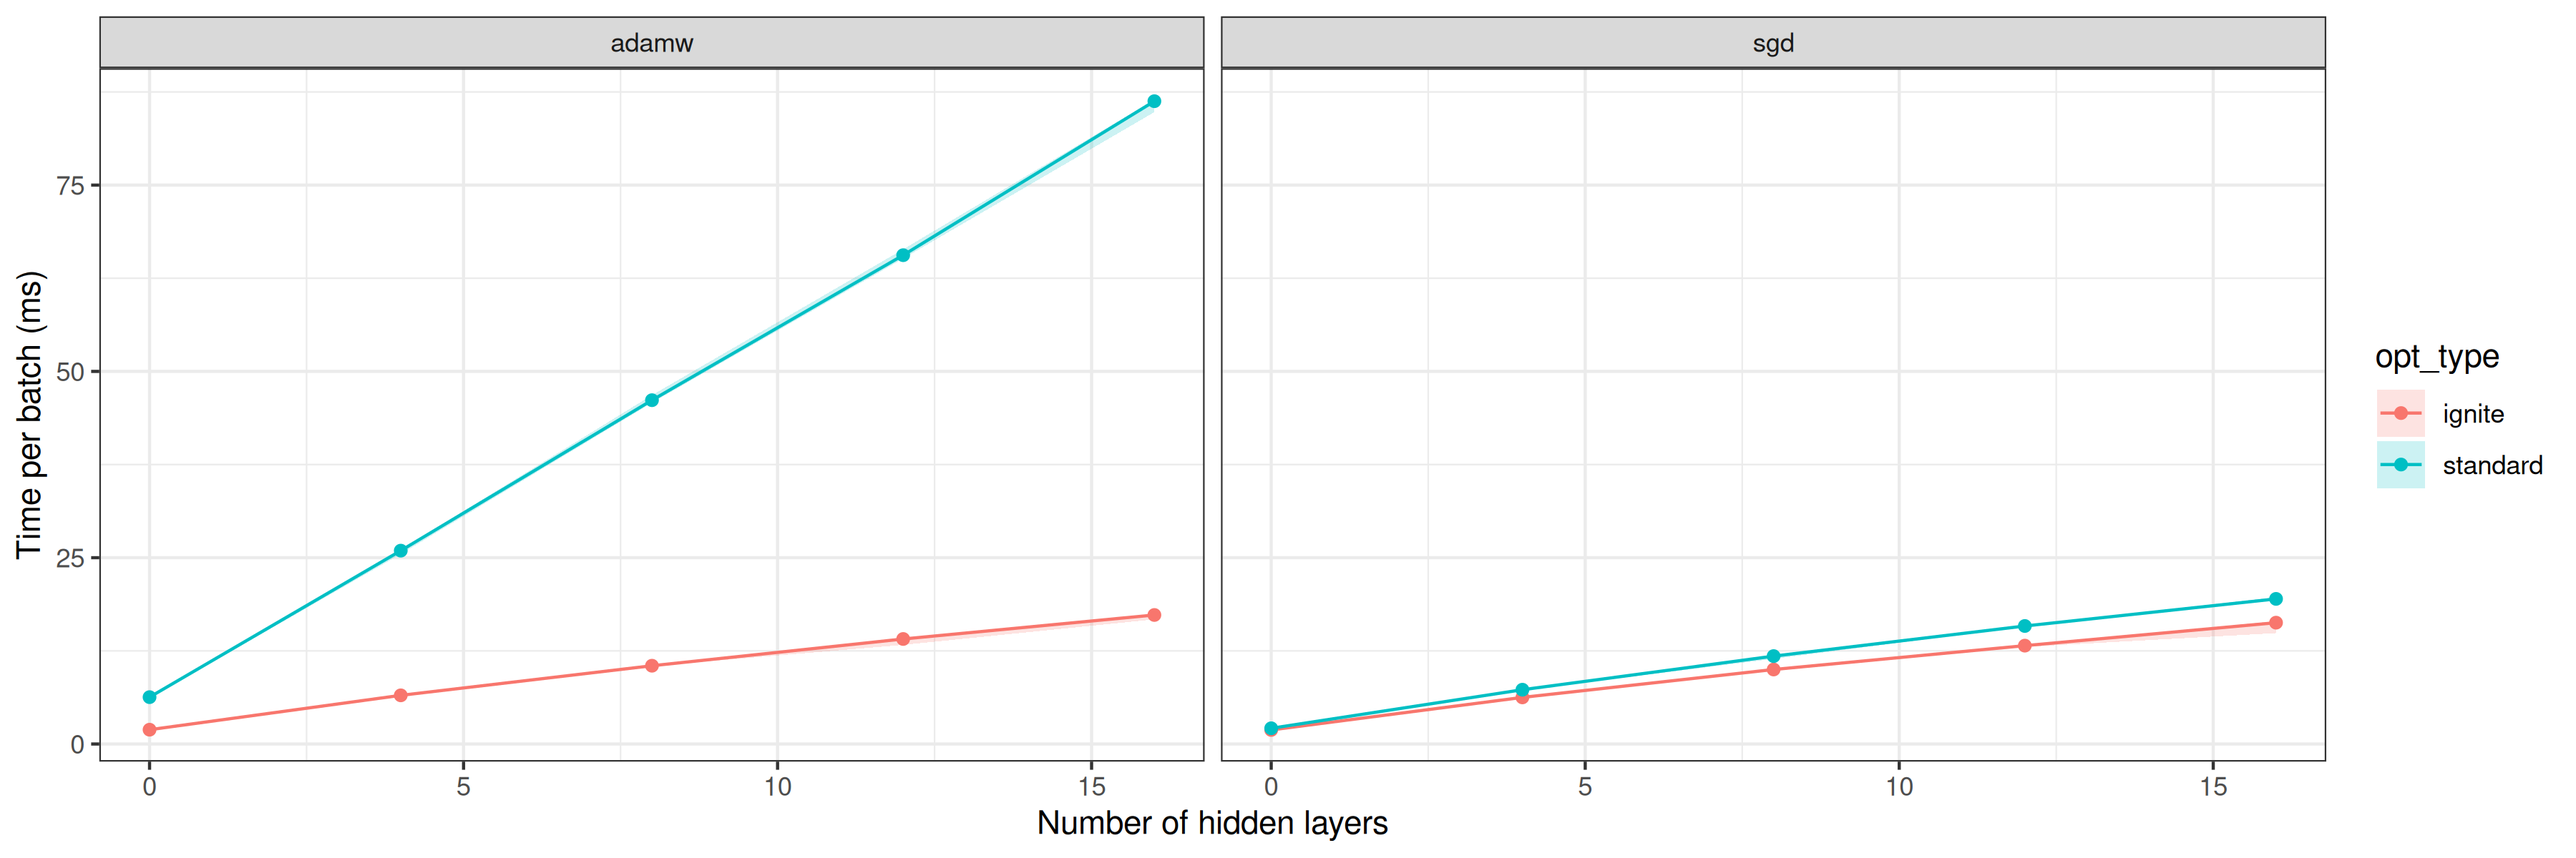
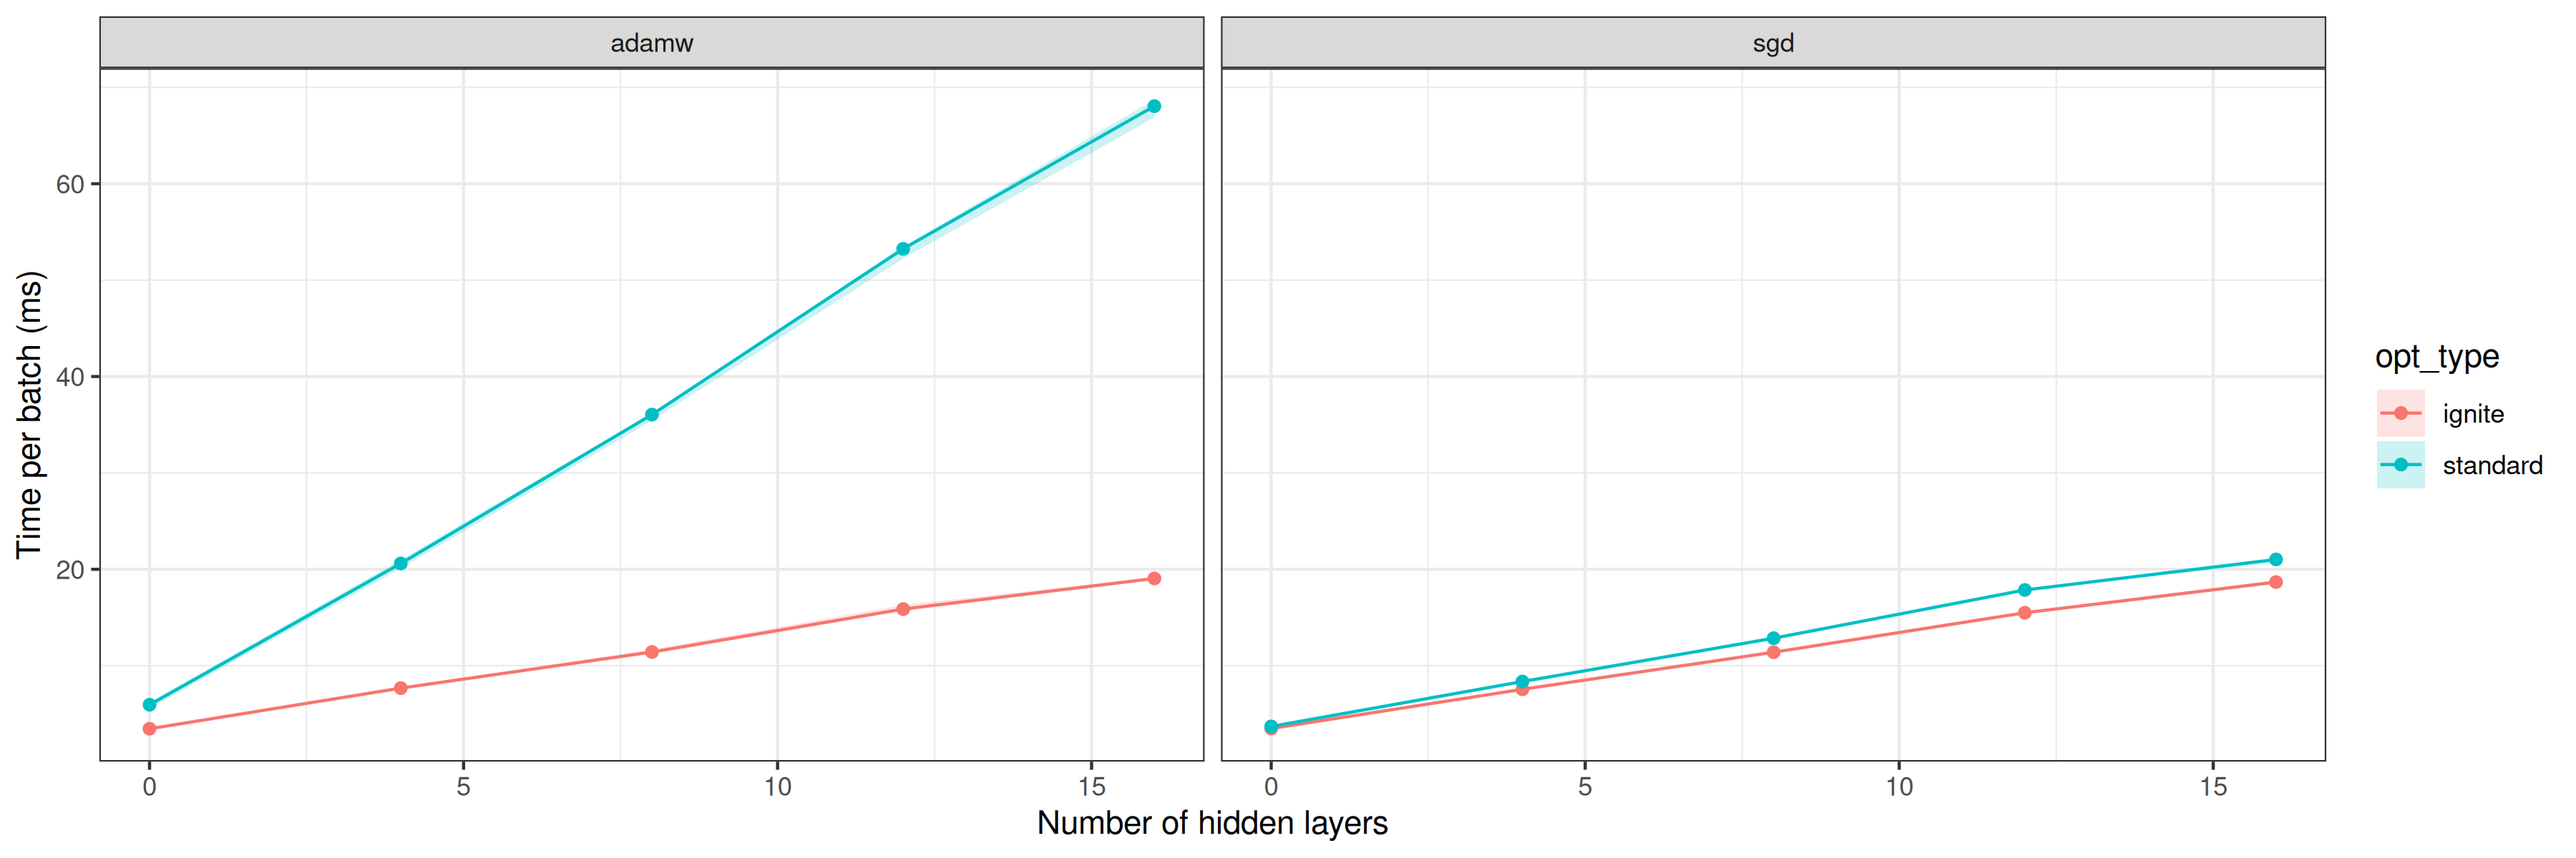
paper: update GPU optimizer benchmark with re-run results
Results from LRZ AI job 5890057 (node mcml-hgx-a100-006, optimizer-20261030/).
Regenerated plot_optimizer*.png. The ratios quoted in the paper
(AdamW 1.7-3.6, SGD ~1.1) already match the new results.

diff --git a/paper/README_internal.md b/paper/README_internal.md
@@ -15,7 +15,7 @@
 
 * [ ] upload mlr3torch to CRAN once bernd approves and benchmarks are reasonable
 * [ ] build final docker images + run final benchmark
-* [ ] wait for the GPU optimizer re-run (LRZ AI job 5890057, `optimizer-20261030/` in the project dir), then update `benchmark/result-linux-gpu-optimizer.rds`, `plot_optimizer*.png` and the optimizer numbers in the paper
+* [x] wait for the GPU optimizer re-run (LRZ AI job 5890057, `optimizer-20261030/` in the project dir), then update `benchmark/result-linux-gpu-optimizer.rds`, `plot_optimizer*.png` and the optimizer numbers in the paper
 * [ ] confirm reproducbibilty of paper results
 * [ ] run the native check on macOS: `paper_code.R` via `renv::restore()` from `renv.lock` (without docker), compare with the docker results
 * [ ] Update the compute info (hardware description) in the paper
